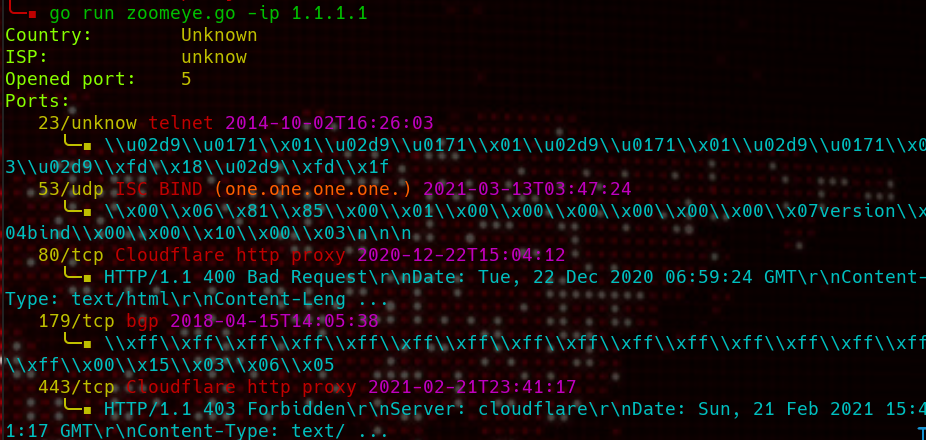
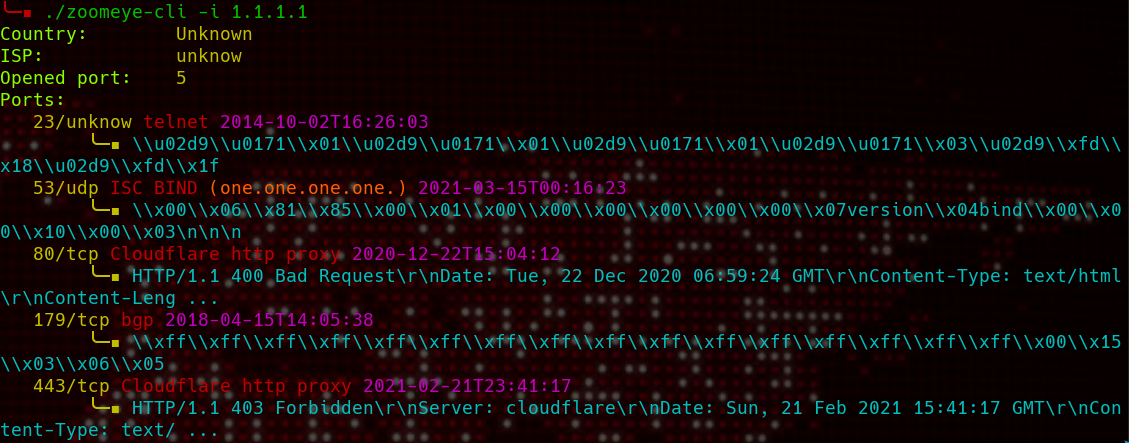
Flags

Changed region(s): [[0.0, 0.0, 1.0, 1.0], [0.3629, 0.0, 0.3931, 0.0591]]

diff --git a/zoomeye-cli.go b/zoomeye-cli.go
@@ -1,8 +1,8 @@
 package main
 
 import (
-  "flag"
   "fmt"
+  "github.com/speedata/optionparser"
   "os"
   . "zoomeye-cli/api"
   . "zoomeye-cli/cidr"
@@ -10,34 +10,41 @@ import (
 )
 
 func main() {
-  key := flag.String("init", "none", "your zoomeye api key")
-  ip := flag.String("ip", "none", "Ip to search")
-  cidr := flag.String("cidr", "none", "Cidr to scan")
-  info := flag.Bool("info", false, "info about your account")
-  noapi := flag.Bool("noapi", false, "Use zoomeye without api key")
-  flag.Parse()
-  if *noapi == true {
+  var key, ip, cidr string
+  var noapi, info bool
+  op := optionparser.NewOptionParser()
+  op.On("-k", "--init KEY", "Setup your zoomeye api key", &key)
+  op.On("-i", "--ip IP", "Search IP", &ip)
+  op.On("-c", "--cidr CIDR", "Search CIDR", &cidr)
+  op.On("-f", "--info", "Info about your account", &info)
+  op.On("-n", "--noapi", "Search without an api key", &noapi)
+  op.On("-h", "--help", "Show this help", help)
+  err := op.Parse()
+  if err != nil || len(os.Args) == 1 || len(op.Extra) != 0 {
+    help()
+  }
+  if noapi {
     port := true
-    if *ip == "none" {
-      fmt.Println("You should provide an ip.\nex: zoomeye -noapi -ip 1.1.1.1")
+    if ip == "" {
+      fmt.Println("You should provide an ip.\nex: zoomeye --noapi -i 1.1.1.1")
       os.Exit(1)
     }
-    PrintVuls(port, *ip)
+    PrintVuls(port, ip)
     os.Exit(0)
   }
-  if *key != "none" {
+  if key != "" {
     CreateApiFile(key)
     os.Exit(0)
   }
-  if *ip != "none" {
-    x, y := ApiCall(*ip)
+  if ip != "" {
+    x, y := ApiCall(ip)
     if x {
       ParseApi(y)
     }
     os.Exit(0)
   }
-  if *cidr != "none" {
-    ips := Cidr_to_ip(*cidr)
+  if cidr != "" {
+    ips := Cidr_to_ip(cidr)
     for _, ip := range ips {
       fmt.Println("\033[38;5;118mIP:       \t\033[33m" + ip)
       x, y := ApiCall(ip)
@@ -47,8 +54,24 @@ func main() {
       fmt.Println("\n")
     }
   }
-  if *info {
+  if info {
     GetInfo()
     os.Exit(0)
   }
+}
+
+func help() {
+  fmt.Println(`usage:
+  -k|--init  KEY              Setup your zoomeye api key
+  -i|--ip    IP               Search IP
+  -c|--cidr  CIDR             Search CIDR
+  -f|--info                   Info about your account
+  -n|--noapi                  Search without an api key
+  -h|--help                   Show this help
+
+exemples:
+zoomeye-cli --ip 1.1.1.1
+zoomeye-cli --cidr 1.1.1.1/24
+zoomeye-cli --noapi -i 1.1.1.1`)
+  os.Exit(1)
 }

diff --git a/api/api.go b/api/api.go
@@ -24,11 +24,11 @@ func GetApiKey() string {
   return x
 }
 
-func CreateApiFile(api *string) {
+func CreateApiFile(api string) {
   usr, _ := user.Current()
   f, _ := os.Create(usr.HomeDir + "/.zoomeye")
   defer f.Close()
-  f.WriteString(*api)
+  f.WriteString(api)
 }
 
 func ApiCall(ip string) (bool, []byte) {

diff --git a/README.md b/README.md
@@ -6,6 +6,17 @@ For usage without api chrome or chromiu is required (will run in headless mode),
 
 hostname search will come later.
 
+## Usage
+
+```txt
+  -k|--init  KEY               Setup your zoomeye api key
+  -i|--ip    IP                Search IP
+  -c|--cidr  CIDR              Search CIDR
+  -f|--info                    Info about your account
+  -n|--noapi                   Search without an api key
+  -h|--help                    Show this help message and exit
+```
+
 ## API usages:
 
 ![api](.github/api.png)
@@ -15,7 +26,7 @@ hostname search will come later.
 first add your api key with:
 
 ```sh 
-zoomeye-cli -init "<API KEY>"
+zoomeye-cli --init "<API KEY>"
 
 ```
 
@@ -26,7 +37,7 @@ API key will be stored in `~/.zoomeye`
 You can check your credit and role with:
 
 ```sh
-zoomeye-cli -info
+zoomeye-cli --info
 Account: user
 Credits: 8559
 ```
@@ -36,13 +47,13 @@ Credits: 8559
 ##### ip 
 
 ```sh
-zoomeye-cli -ip 1.1.1.1
+zoomeye-cli -i 1.1.1.1
 ```
 
 ##### cidr
 
 ```sh
-zoomeye-cli -cidr 1.1.1.1/24
+zoomeye-cli -c 1.1.1.1/24
 ```
 
 
@@ -71,7 +82,7 @@ for check details go to "https://www.seebug.org/vuldb/ssvid-<ID>"
 #### Search
 
 ```
-zoomeye-cli -noapi -ip <ip>
+zoomeye-cli --noapi -i <ip>
 ```
 
 ## Installation
